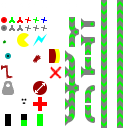
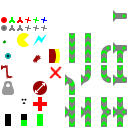
Eliminate texture wrapping from GUI

diff --git a/src/graph.cpp b/src/graph.cpp
@@ -75,23 +75,16 @@ namespace Gui
         {i_none,   i_none,  i_none,  i_none,   0},  // invalid
     };
 
-    struct Position
-    {
-        int x, y;
-    };
+    constexpr int link_spacing = 32;
+    constexpr int link_pos_x = 64;
+    constexpr int link_pos_y = (link_spacing - line_spacing) / 2;
+    constexpr unsigned link_row = 4;
 
     enum LinkTypes
     {
-        l_end_up = 1, l_end_dn = 2, l_end_mid = 4,
-        l_beg_up = 8, l_beg_dn, l_br_up, l_br_dn, l_up, l_dn
-    };
-
-    const Position links[] =
-    {
-        {0x30, 0x70}, {0x50, 0x70}, {0x50, 0x50}, {0x40, 0x18},
-        {0x50, 0x10}, {0x50, 0x40}, {0x50, 0x20}, {0x40, 0x50},
-        {0x40, 0x30}, {0x40, 0x70}, {0x40, 0x40}, {0x40, 0x60},
-        {0x60, 0x00}, {0x70, 0x00}
+        l_up = 1, l_beg_up, l_br_up,
+        l_dn = 5, l_beg_dn, l_br_dn,
+        l_end_dn = 9, l_end_up = 10, l_end_mid = 12
     };
 
     constexpr int scroll_pos_x = 104;
@@ -216,9 +209,9 @@ struct GuiBack
 struct GuiQuad
 {
     GLshort x, y;
-    GLushort tx, ty, width, height;
+    GLubyte tx, ty, width, height;
 
-    GuiQuad(GLshort x, GLshort y, GLushort tx, GLushort ty, GLushort width, GLushort height) :
+    GuiQuad(GLshort x, GLshort y, GLubyte tx, GLubyte ty, GLubyte width, GLubyte height) :
         x(x), y(y), tx(tx), ty(ty), width(width), height(height)
     {
     }
@@ -292,7 +285,7 @@ const VertexAttribute layout_gui[] =
 {
     ATTR(Vertex,       x,       2,       GL_FLOAT,          0),
     ATTR(GuiQuad,      x,       2,       GL_SHORT,          f_instance),
-    ATTR(GuiQuad,      tx,      4,       GL_UNSIGNED_SHORT, f_instance),
+    ATTR(GuiQuad,      tx,      4,       GL_UNSIGNED_BYTE,  f_instance),
 };
 const VertexAttribute layout_panel[] =
 {
@@ -769,75 +762,60 @@ void put_flags(std::vector<GuiQuad> &buf, int x, int y, unsigned flags, unsigned
     }
 }
 
-int put_link(std::vector<GuiQuad> &buf, int x, int y, size_t &prev, int type1, int type2, int line)
+void put_link(std::vector<GuiQuad> &buf, int x, int y, int &y_prev, unsigned type1, unsigned type2, unsigned line)
 {
-    int type = type1;
-    if(prev != size_t(-1))
+    unsigned type = type1;
+    if(y_prev >= 0)
     {
-        int yy = buf[prev].y + buf[prev].height;  type = type2;
-        buf.emplace_back(x, yy, Gui::links[line].x, Gui::links[line].y, Gui::icon_width, y - yy);
+        type = type2;
+        int tx = Gui::link_pos_x + (line / Gui::link_row) * Gui::icon_width;
+        int ty = Gui::link_pos_y + (line % Gui::link_row) * Gui::link_spacing;
+        for(int pos = y_prev + Gui::line_spacing; pos < y; pos += Gui::line_spacing)
+            buf.emplace_back(x, pos, tx, ty, Gui::icon_width, Gui::line_spacing);
     }
-    prev = buf.size();  assert(type);
-    buf.emplace_back(x, y, Gui::links[type].x, Gui::links[type].y, Gui::icon_width, Gui::line_height);
-    return type;
+    int tx = Gui::link_pos_x + (type / Gui::link_row) * Gui::icon_width;
+    int ty = Gui::link_pos_y + (type % Gui::link_row) * Gui::link_spacing;
+    buf.emplace_back(x, y, tx, ty, Gui::icon_width, Gui::line_spacing);
+    y_prev = y;
 }
 
 struct LinkPainter
 {
     std::vector<GuiQuad> &buf;
-    int x, y;  uint32_t dst;
+    int x, y_dst, y_prev;
 
-    size_t prev;  bool output;  int type;
-
-    LinkPainter(std::vector<GuiQuad> &buf, int x, int y, int dst) :
-        buf(buf), x(x), y(y), dst(dst), prev(-1), output(false)
+    LinkPainter(std::vector<GuiQuad> &buf, int x, int dst) :
+        buf(buf), x(x), y_dst(dst * Gui::line_spacing), y_prev(-1)
     {
     }
 
     void process(uint32_t src, int32_t weight)
     {
-        if(!weight)return;  int yy = y + src * Gui::line_spacing;
-        put_weight(buf, x - Gui::item_width - Gui::icon_width, yy, weight);
-
-        if(src < dst)
+        if(!weight)return;  int y = src * Gui::line_spacing;
+        put_weight(buf, x - Gui::item_width - Gui::icon_width, y + Gui::margin, weight);
+        if(y < y_dst)
         {
-            type = put_link(buf, x, yy, prev, Gui::l_beg_up, Gui::l_br_up, Gui::l_up);
-            return;
+            put_link(buf, x, y, y_prev, Gui::l_beg_up, Gui::l_br_up, Gui::l_up);  return;
         }
-        if(src == dst)
+        if(y == y_dst)
         {
-            output = true;
-            type = put_link(buf, x, yy, prev,
-                Gui::l_end_dn | Gui::l_end_mid, Gui::l_end_up | Gui::l_end_dn | Gui::l_end_mid, Gui::l_up);
-            return;
+            put_link(buf, x, y, y_prev, Gui::l_end_dn | Gui::l_end_mid,
+                Gui::l_end_up | Gui::l_end_dn | Gui::l_end_mid, Gui::l_up);  return;
         }
-        if(!output)
-        {
-            output = true;
-            put_link(buf, x, y + dst * Gui::line_spacing, prev,
-                Gui::l_end_dn, Gui::l_end_up | Gui::l_end_dn, Gui::l_up);
-        }
-        type = put_link(buf, x, yy, prev, 0, Gui::l_br_dn, Gui::l_dn);
+        if(y_prev < y_dst)put_link(buf, x, y_dst, y_prev, Gui::l_end_dn, Gui::l_end_up | Gui::l_end_dn, Gui::l_up);
+        put_link(buf, x, y, y_prev, Gui::l_br_dn, Gui::l_br_dn, Gui::l_dn);
     }
 
     void finalize(uint32_t last, int32_t level)
     {
-        if(!output)
-            type = put_link(buf, x, y + dst * Gui::line_spacing, prev,
-                Gui::l_end_dn, Gui::l_end_up | Gui::l_end_dn, Gui::l_up);
-
-        if(prev == size_t(-1))return;
-        if(level)
+        if(y_prev < y_dst)put_link(buf, x, y_dst, y_prev, Gui::l_end_dn, Gui::l_end_up | Gui::l_end_dn, Gui::l_up);
+        if(!level)
         {
-            int yy = y + last * Gui::line_spacing;
-            put_weight(buf, x - Gui::icon_width, yy, -level);
-            put_link(buf, x, yy, prev, 0, Gui::l_beg_dn, Gui::l_dn);
+            buf[buf.size() - 1].ty -= Gui::link_spacing;  return;
         }
-        else
-        {
-            buf[prev].tx = Gui::links[type - Gui::l_end_dn].x;
-            buf[prev].ty = Gui::links[type - Gui::l_end_dn].y;
-        }
+        int y = last * Gui::line_spacing;
+        put_weight(buf, x - Gui::icon_width, y + Gui::margin, -level);
+        put_link(buf, x, y, y_prev, Gui::l_beg_dn, Gui::l_beg_dn, Gui::l_dn);
     }
 };
 
@@ -1023,9 +1001,8 @@ void Representation::Selection::fill_sel_levels(GLuint buf, size_t &size)
 
 void Representation::Selection::fill_sel_links(GLuint buf, size_t &size)
 {
-    const auto &slots = proc.slots;
-    const auto &links = proc.links;
-    if(slot < 0 || slots[slot].neiro_state == GenomeProcessor::s_input)
+    const auto &slots = proc.slots;  const auto &links = proc.links;
+    if(slot < 0 || slots[slot].neiro_state == GenomeProcessor::s_input || !slots[slot].link_count)
     {
         glBindBuffer(GL_ARRAY_BUFFER, buf);
         glBufferData(GL_ARRAY_BUFFER, 0, nullptr, GL_DYNAMIC_DRAW);
@@ -1033,12 +1010,12 @@ void Representation::Selection::fill_sel_links(GLuint buf, size_t &size)
     }
 
     std::vector<GuiQuad> data;
-    uint32_t beg = slots[slot].link_start;
-    uint32_t end = beg + slots[slot].link_count;
+    data.reserve(5 * slots[slot].link_count + mapping[l_slot].size() + 8);
+    uint32_t beg = slots[slot].link_start, end = beg + slots[slot].link_count;
 
     uint32_t cur = links[beg].source;
     int32_t weight = 0, level = slots[slot].act_level;
-    LinkPainter painter(data, Gui::base_offs, Gui::margin, refs[slot]);
+    LinkPainter painter(data, Gui::base_offs, refs[slot]);
     for(uint32_t j = beg; j < end; j++)
     {
         if(links[j].source != cur)
